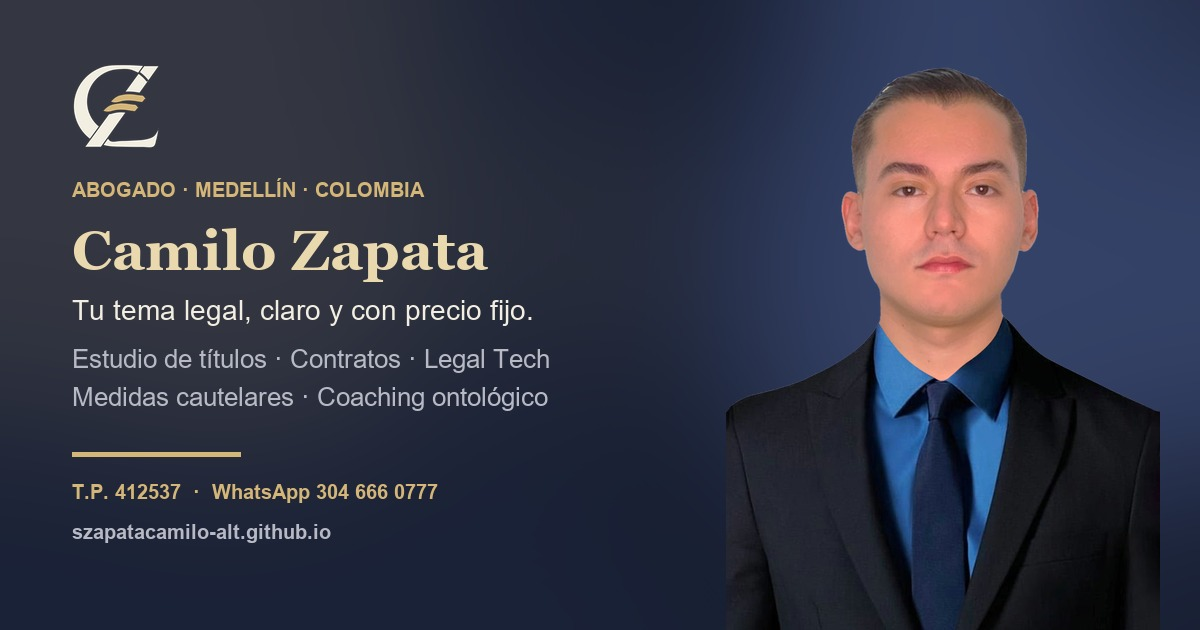
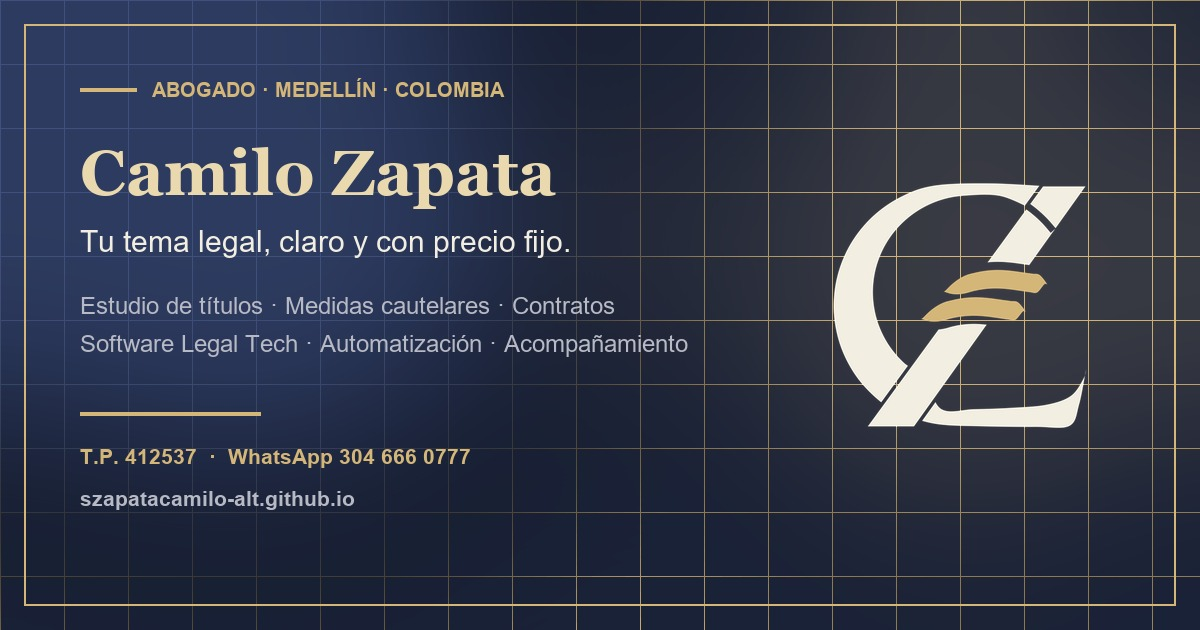
Hacer fotos mas naturales y discretas, quitar foto tipo cedula y dejar foco en servicios

diff --git a/index.html b/index.html
@@ -375,16 +375,13 @@ h1,h2,h3{text-wrap:balance;letter-spacing:.005em}
   .freelink,.post .rel,.post .ask,details.inc>summary,.jur-ex button{min-height:40px;display:inline-flex;align-items:center}
   .chip,.tab,.jur .cts button{min-height:42px}
 }
-.bio-card{display:grid;grid-template-columns:220px minmax(0,1fr);gap:28px;align-items:center;background:linear-gradient(180deg,#2D3856,var(--night-3));border:1px solid var(--line-2);border-radius:12px;padding:24px;margin-bottom:28px;box-shadow:var(--shadow)}
-.bio-card img{width:100%;aspect-ratio:5/6;object-fit:cover;object-position:top;border-radius:10px;border:1px solid var(--line-2)}
-.bio-card h3{font:700 24px/1.2 var(--f-body);color:var(--cream);margin:0 0 8px}
-.bio-card p{color:var(--muted);font-size:15.5px;margin-bottom:14px}
-.bio-tags{display:flex;flex-wrap:wrap;gap:8px}
-.bio-tags span{font-size:12.5px;font-weight:600;color:var(--cream);background:rgba(213,182,121,.12);border:1px solid var(--line-2);padding:6px 12px;border-radius:999px}
-@media (max-width:680px){.bio-card{grid-template-columns:1fr;text-align:center;justify-items:center}.bio-card img{max-width:210px}.bio-card p{text-align:center}.bio-tags{justify-content:center}}
-.coach-intro{display:grid;grid-template-columns:minmax(0,1.25fr) 260px;gap:32px;align-items:center;margin-bottom:36px}
-.coach-intro img{width:100%;aspect-ratio:1/1;object-fit:cover;object-position:top;border-radius:12px;border:1px solid var(--line-2);box-shadow:var(--shadow)}
-@media (max-width:760px){.coach-intro{grid-template-columns:1fr;gap:20px}.coach-intro img{max-width:220px;margin-inline:auto}}
+.bio-card{display:flex;align-items:flex-start;gap:18px;background:linear-gradient(180deg,#2D3856,var(--night-3));border:1px solid var(--line);border-radius:12px;padding:22px 24px;margin-bottom:24px;box-shadow:var(--shadow)}
+.bio-card img{width:68px;height:68px;flex:none;object-fit:cover;object-position:top;border-radius:50%;border:1.5px solid var(--line-2)}
+.bio-card h3{font:700 20px/1.25 var(--f-body);color:var(--cream);margin:0 0 6px}
+.bio-card p{color:var(--muted);font-size:15px;margin-bottom:12px}
+.bio-tags{display:flex;flex-wrap:wrap;gap:7px}
+.bio-tags span{font-size:12px;font-weight:600;color:var(--cream);background:rgba(213,182,121,.10);border:1px solid var(--line);padding:5px 11px;border-radius:999px}
+@media (max-width:600px){.bio-card{flex-direction:column;gap:12px}.bio-card img{width:60px;height:60px}}
 .lb{position:fixed;inset:0;z-index:20;background:rgba(12,16,28,.88);backdrop-filter:blur(8px);display:grid;place-items:center;padding:20px}
 .lb-box{background:var(--night-2);border:1px solid var(--line-2);border-radius:14px;max-width:520px;width:100%;padding:20px;display:grid;gap:14px;box-shadow:0 24px 60px rgba(0,0,0,.7);max-height:92vh;overflow:auto}
 .lb-head{display:flex;justify-content:space-between;align-items:center;gap:12px}
@@ -462,14 +459,7 @@ h1,h2,h3{text-wrap:balance;letter-spacing:.005em}
 </div></section>
 
 <section class="band alt" id="acompanamiento"><div class="w">
-  <div class="coach-intro">
-    <div>
-      <span class="kicker">Escucha · Mentoría · Coaching ontológico</span>
-      <h2>Claridad para decisiones difíciles</h2>
-      <p class="sub">No todo problema se resuelve solo con un contrato o una demanda. También acompaño conversaciones uno a uno de escucha activa, coaching ontológico y mentoría profesional para bajar el ruido y decidir con criterio.</p>
-    </div>
-    <img src="img/camilo-coaching.jpg" alt="Camilo Zapata · Acompañamiento y coaching ontológico" loading="lazy">
-  </div>
+  <div class="head"><span class="kicker">Escucha · Mentoría · Coaching ontológico</span><h2>Claridad para decisiones difíciles</h2><p class="sub">No todo problema se resuelve solo con un contrato o una demanda. También acompaño conversaciones uno a uno de escucha activa, coaching ontológico y mentoría profesional para bajar el ruido y decidir con criterio.</p></div>
   <div class="sols t2" id="acomp"></div>
   <p class="fine" id="acomp-nota"></p>
 </div></section>
